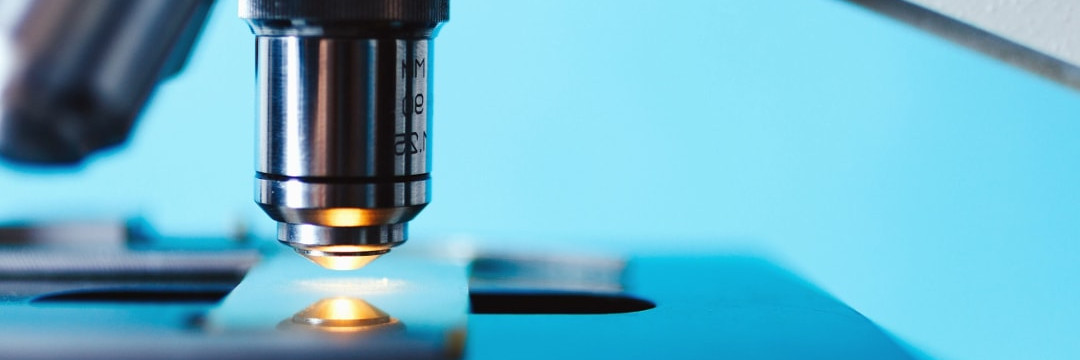
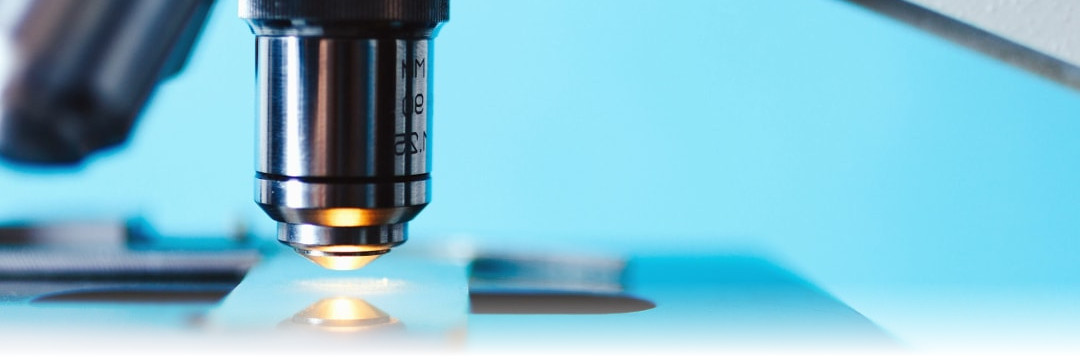
feature/move search engine into billboard section

Changed region(s): [[0.0, 0.7944, 1.0, 1.0]]

diff --git a/src/components/LandingPage.vue b/src/components/LandingPage.vue
@@ -1,21 +1,18 @@
 <template>
   <div class="container-fluid m-0 p-0">
-    <app-header></app-header>
+    <div id="fixed-img"> </div>
 
-    <div id="billboard" class="m-0 p-0">
-      <div class="background"> </div>
+    <div id="billboard" class="m-0 p-3">
       <div class="filter"> </div>
       <div id="slogan" class="align-middle">
         <img src="../assets/logo-txt-white.png" class="img-fluid">
         <h1>Faisons du codage un processus rapide et intuitif</h1>
+
+        <div id="search-engine" class="mt-5 p-3 rounded">
+          <app-search-engine v-bind:data="{ API_BASE_URL: data.API_BASE_URL }"> </app-search-engine>
+        </div>
       </div>
     </div>
-
-    <section>
-      <div class="content">
-        <app-search-engine v-bind:data="{ API_BASE_URL: data.API_BASE_URL }"> </app-search-engine>
-      </div>
-    </section>
 
     <section class="px-2 py-5">
       <div class="content">
@@ -86,6 +83,16 @@ button {
   cursor: pointer;
 }
 
+#fixed-img {
+  @extend .absolute-abst;
+  background-image: url('../assets/microscope.jpg');
+  background-position: bottom;
+  background-size: cover;
+  z-index: -20;
+  min-height: 100vh;
+  height: 100vh;
+}
+
 #billboard {
   display: table;
   position: relative;
@@ -93,55 +100,24 @@ button {
   min-height: 100vh;
   height: 100vh;
 
+  > .filter {
+    @extend .absolute-abst;
+    background-color: $blue;
+    z-index: -10;
+    opacity: 0.5;
+  }
+
   #slogan {
     display: table-cell;
     color: $white;
   }
-
-  > .background {
-    @extend .absolute-abst;
-    background-image: url('../assets/microscope.jpg');
-    background-position: center;
-    background-size: cover;
-    z-index: -20;
-  }
-
-  > .filter {
-    @extend .absolute-abst;
-    background-color: #2d2281;
-    z-index: -10;
-    opacity: 0.5;
-  }
 }
 
 #search-engine {
-  display: table;
-  position: relative;
-  width: 100%;
-  min-height: 50vh;
-  height: 50vh;
-  color: $white;
-
-  > .background {
-    @extend .absolute-abst;
-    background-image: url('../assets/pattern-hexagons.png');
-    background-position: center;
-    z-index: -10;
-    opacity: 0.2;
-}
-
-  > .filter {
-    @extend .absolute-abst;
-    background: #1e5799;
-    background: -webkit-linear-gradient(top, $purple-l 0%, $blue 100%);
-    background: -moz-linear-gradient(top, $purple-l 0%, $blue 100%);
-    background: linear-gradient(to bottom, $purple-l 0%, $blue 100%);
-    z-index: -20;
-  }
-
-  > .content {
-    display: table-cell;
-  }
+  background-color: white;
+  color: $black;
+  max-width: 1000px;
+  margin: 0 auto;
 }
 
 .font-bold {

diff --git a/config/dev.env.js b/config/dev.env.js
@@ -4,5 +4,5 @@ const prodEnv = require('./prod.env')
 
 module.exports = merge(prodEnv, {
   NODE_ENV: '"development"',
-  API_BASE_URL: '"https://95a644b1.ngrok.io"'
+  API_BASE_URL: '"https://0d8aa3f8.ngrok.io"'
 })
